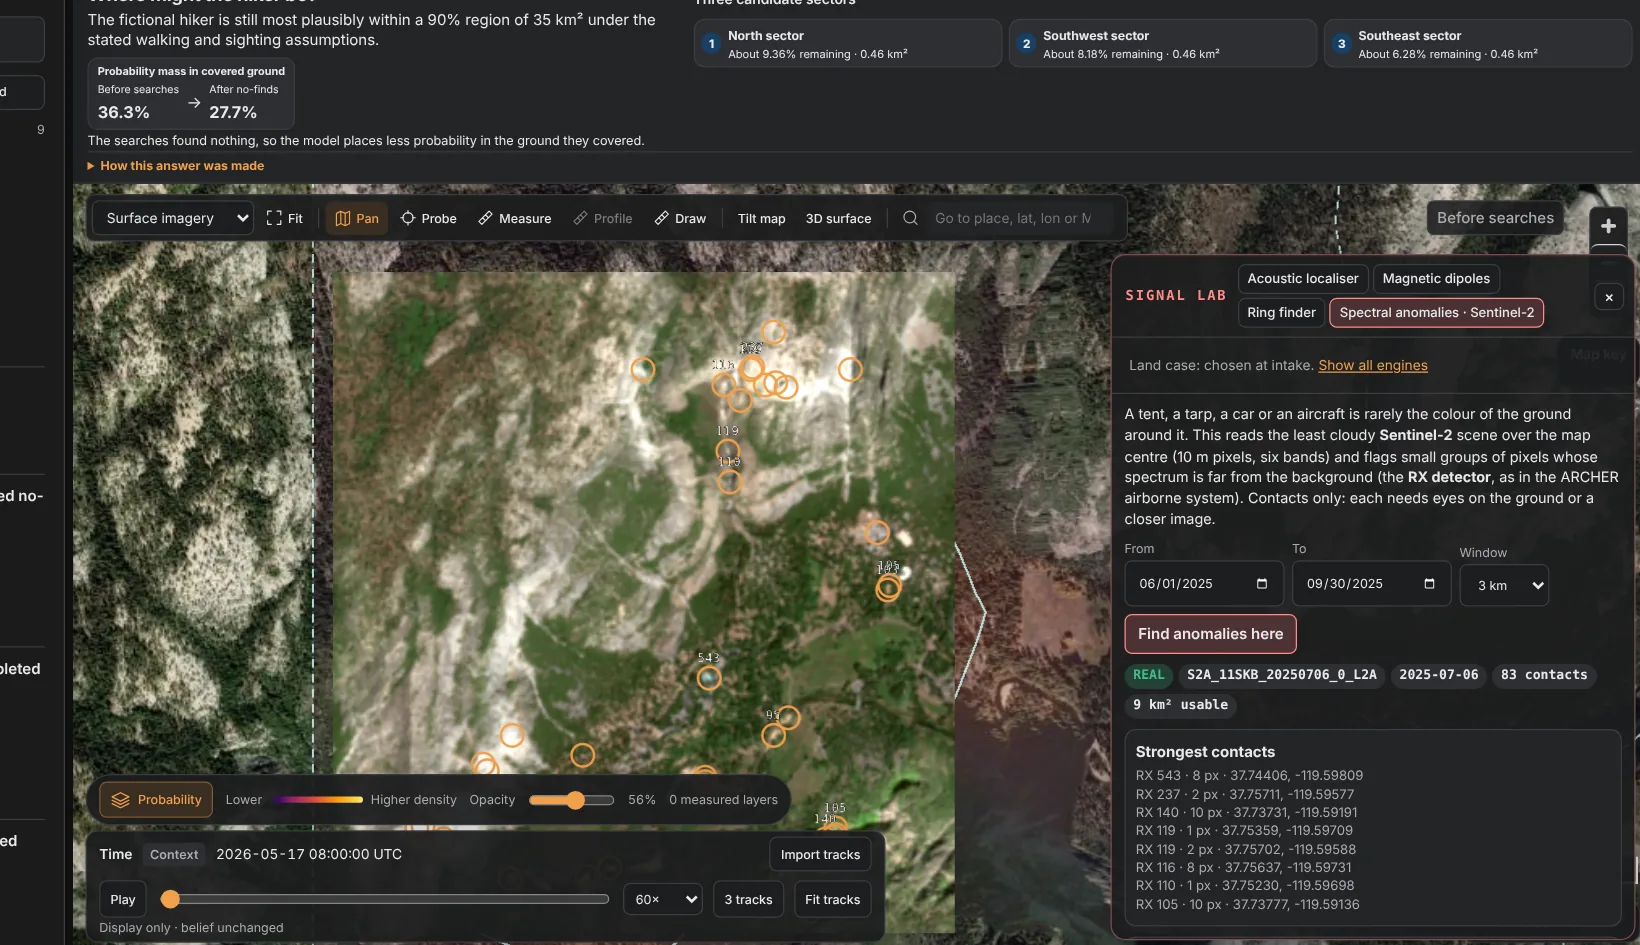
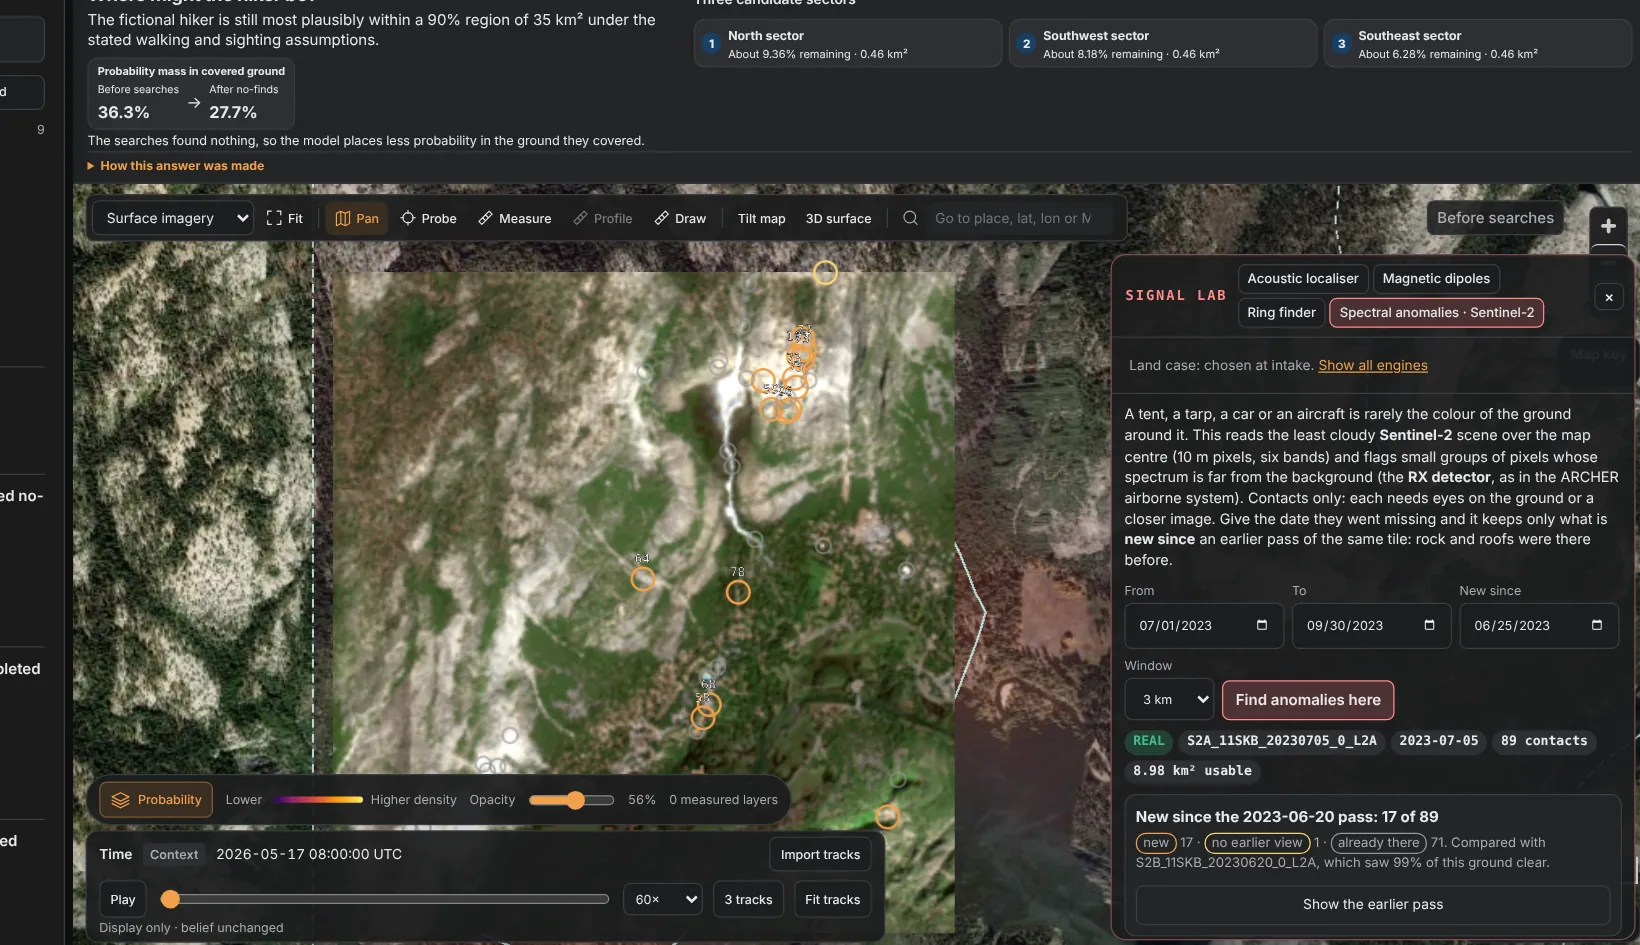
Land engine: "new since they went missing", measured on real pairs
The spectral engine section explains the comparison with an earlier pass of the same tile and why
the pass is chosen by how much ground it sees (tile-wide cloud picked snowy spring scenes). New
screenshot: Yosemite, 5 July against 20 June 2023, 17 of 89 anomalies new. Real-data table and
board gain the R7 result (6.0 to 0.8 other anomalies per km2 where the earlier pass saw the
ground; 8.0 to 3.2 over all five; tent still 122/125). R6 numbers follow the repeatable re-run
(10 m2: 59/125).

Claude-Session: https://claude.ai/code/session_01MYDVWJmnsMXumzgm4hNe9F

diff --git a/_pages/abyssal/engines.html b/_pages/abyssal/engines.html
@@ -217,10 +217,11 @@
     <div class="k">Land · Sentinel-2 imagery</div>
     <h3>The wrong colour for the place</h3>
     <p>A tent, a tarp, a car or a crashed aircraft is rarely the colour of the ground around it. The engine reads the least cloudy Sentinel-2 scene over the map (10 m pixels, six bands, cloud and shadow masked) and scores every pixel by how far its spectrum sits from the background, the Reed–Xiaoli detector: \(d^2 = (x-\mu)^\top \Sigma^{-1} (x-\mu)\), which is \(\chi^2_6\) on ordinary ground. The threshold is \(p = 10^{-9}\), and anything bigger than twelve pixels (a field, a roof, a snowfield) is dropped as not small. The same idea flew in the ARCHER hyperspectral system.</p>
-    <div class="nums"><div><b>123 / 125</b><small>20 m² orange tents found</small></div><div><b>58 / 125</b><small>at 10 m², a tenth of a pixel</small></div><div><b>~8 / km²</b><small>other anomalies on real ground</small></div></div>
-    <p class="honest"><span class="tag real">real</span> Calibrated by planting 2,500 targets with typical published spectra into real scenes in five landscapes. The background is real; the truth is made, because no public list of real tents in satellite scenes exists. Rock, roofs and vehicles also stand out, so the output is a list of places to look at more closely, never an answer. On a land case, ABYSSAL shows this engine and hides the sea ones.</p>
+    <p>Most of what stands out is permanent: rock, roofs, the cars that live there. A lost person's tent is <em>new</em>. Give the date they went missing and the engine finds the earlier pass of the same Sentinel-2 tile that saw most of the same ground clear (the two share the exact 10 m grid), and marks each contact new, already there, or not seen before. Choosing that pass by tile-wide cloud cover failed: it picked spring scenes whose ground was under snow.</p>
+    <div class="nums"><div><b>123 / 125</b><small>20 m² orange tents found</small></div><div><b>59 / 125</b><small>at 10 m², a tenth of a pixel</small></div><div><b>6.0 → 0.8</b><small>other anomalies per km², new since an earlier pass</small></div></div>
+    <p class="honest"><span class="tag real">real</span> Calibrated by planting 2,500 targets with typical published spectra into real scenes in five landscapes. The background is real; the truth is made, because no public list of real tents in satellite scenes exists. One scene alone raises about eight other anomalies per km²; "new since" cuts that to 0.8 where the earlier pass saw all the ground, still finding 122 of 125 tents. Across all five sites it is 3.2, because snow, a year of real change (heather burning) and sun on cliffs leave more. Either way the output is a list of places to look at more closely, never an answer. On a land case, ABYSSAL shows this engine and hides the sea ones.</p>
   </div>
-  <figure><img src="../assets/abyssal/eng-spectral.webp" alt="A real Sentinel-2 scene over Yosemite with spectral anomaly contacts marked, and the Signal Lab panel listing the strongest contacts" loading="lazy"><figcaption>Real Sentinel-2, Yosemite, July 2025: 83 small anomalies in 9 km² of usable ground, each a place to look rather than an answer.</figcaption></figure>
+  <figure><img src="../assets/abyssal/eng-spectral.webp" alt="A real Sentinel-2 scene over Yosemite with anomaly contacts: orange rings for new ones, grey for ones already there in an earlier pass, and the Signal Lab panel counting them" loading="lazy"><figcaption>Real Sentinel-2 over Yosemite, 5 July 2023, against the 20 June pass: 17 of 89 small anomalies are new (orange); the grey ones were already there.</figcaption></figure>
 </section>
 
 <section class="feature flip" id="eng-earlier">
@@ -241,7 +242,8 @@
     <tr><td>Dark vessels</td><td>9 windows, 4 days, three US approaches</td><td>NOAA MarineCadastre AIS at image time</td><td class="n">≥100 m: 47/51; &lt;35 m: 37/54; 958 unexplained echoes in 5,464 km²</td></tr>
     <tr><td>Persistence</td><td>8 passes over 3 platform fields</td><td>NOAA charted platforms</td><td class="n">15/16, median 33 m; Eva (near shore) missed</td></tr>
     <tr><td>Seabed</td><td>85 NOAA BlueTopo windows, 12 regions</td><td>Survey-located chart wrecks</td><td class="n">41/85, median 9 m</td></tr>
-    <tr><td>Spectral anomalies (land)</td><td>Sentinel-2 L2A, 5 landscapes (Sierra, Cairngorms, Cascades, Nevada)</td><td>2,500 targets planted at known places</td><td class="n">20 m² orange tent: 123/125; 10 m²: 58/125; ~8 other anomalies per km²</td></tr>
+    <tr><td>Spectral anomalies (land)</td><td>Sentinel-2 L2A, 5 landscapes (Sierra, Cairngorms, Cascades, Nevada)</td><td>2,500 targets planted at known places</td><td class="n">20 m² orange tent: 123/125; 10 m²: 59/125; ~8 other anomalies per km²</td></tr>
+    <tr><td>New since (land)</td><td>5 real pairs of Sentinel-2 passes, same tile</td><td>2,500 targets planted in the later pass</td><td class="n">other anomalies 6.0 → 0.8 per km² where the earlier pass saw the ground (8.0 → 3.2 over all five); tent 122/125</td></tr>
     <tr><td>Lost-submarine drill</td><td>ARA San Juan, public facts + ETOPO 2022</td><td>The wreck, found at 907 m</td><td class="n">95% area −34% (0.5° bearing error), wreck inside the 50% region</td></tr>
   </tbody>
 </table></div>
@@ -264,7 +266,7 @@
     <tr><td>Magnetic dipole</td><td>position, depth, moment</td><td class="n">0.95 POD; 3 cm depth</td><td>none yet</td></tr>
     <tr><td>Seabed &amp; sonar</td><td>relief and shadow contacts</td><td class="n">47/48 wrecks; 58/64 side-scan</td><td>41/85 charted wrecks, NOAA BlueTopo</td></tr>
     <tr><td>Debris back-track</td><td>where finds entered the water</td><td class="n">30/30 coverage, shared environment</td><td>none yet</td></tr>
-    <tr><td>Spectral anomalies (land)</td><td>small objects that are the wrong colour</td><td class="n">implants in real scenes: 98% at 20 m², 46% at 10 m²</td><td>5 real Sentinel-2 landscapes; ~8 other anomalies per km²</td></tr>
+    <tr><td>Spectral anomalies (land)</td><td>small objects that are the wrong colour</td><td class="n">implants in real scenes: 98% at 20 m², 47% at 10 m²</td><td>5 real Sentinel-2 landscapes; 0.8 other anomalies per km² new since an earlier clear pass</td></tr>
   </tbody>
 </table>
 </div>

diff --git a/abyssal/engines.html b/abyssal/engines.html
@@ -264,10 +264,11 @@
     <div class="k">Land · Sentinel-2 imagery</div>
     <h3>The wrong colour for the place</h3>
     <p>A tent, a tarp, a car or a crashed aircraft is rarely the colour of the ground around it. The engine reads the least cloudy Sentinel-2 scene over the map (10 m pixels, six bands, cloud and shadow masked) and scores every pixel by how far its spectrum sits from the background, the Reed–Xiaoli detector: \(d^2 = (x-\mu)^\top \Sigma^{-1} (x-\mu)\), which is \(\chi^2_6\) on ordinary ground. The threshold is \(p = 10^{-9}\), and anything bigger than twelve pixels (a field, a roof, a snowfield) is dropped as not small. The same idea flew in the ARCHER hyperspectral system.</p>
-    <div class="nums"><div><b>123 / 125</b><small>20 m² orange tents found</small></div><div><b>58 / 125</b><small>at 10 m², a tenth of a pixel</small></div><div><b>~8 / km²</b><small>other anomalies on real ground</small></div></div>
-    <p class="honest"><span class="tag real">real</span> Calibrated by planting 2,500 targets with typical published spectra into real scenes in five landscapes. The background is real; the truth is made, because no public list of real tents in satellite scenes exists. Rock, roofs and vehicles also stand out, so the output is a list of places to look at more closely, never an answer. On a land case, ABYSSAL shows this engine and hides the sea ones.</p>
+    <p>Most of what stands out is permanent: rock, roofs, the cars that live there. A lost person's tent is <em>new</em>. Give the date they went missing and the engine finds the earlier pass of the same Sentinel-2 tile that saw most of the same ground clear (the two share the exact 10 m grid), and marks each contact new, already there, or not seen before. Choosing that pass by tile-wide cloud cover failed: it picked spring scenes whose ground was under snow.</p>
+    <div class="nums"><div><b>123 / 125</b><small>20 m² orange tents found</small></div><div><b>59 / 125</b><small>at 10 m², a tenth of a pixel</small></div><div><b>6.0 → 0.8</b><small>other anomalies per km², new since an earlier pass</small></div></div>
+    <p class="honest"><span class="tag real">real</span> Calibrated by planting 2,500 targets with typical published spectra into real scenes in five landscapes. The background is real; the truth is made, because no public list of real tents in satellite scenes exists. One scene alone raises about eight other anomalies per km²; "new since" cuts that to 0.8 where the earlier pass saw all the ground, still finding 122 of 125 tents. Across all five sites it is 3.2, because snow, a year of real change (heather burning) and sun on cliffs leave more. Either way the output is a list of places to look at more closely, never an answer. On a land case, ABYSSAL shows this engine and hides the sea ones.</p>
   </div>
-  <figure><img src="../assets/abyssal/eng-spectral.webp" alt="A real Sentinel-2 scene over Yosemite with spectral anomaly contacts marked, and the Signal Lab panel listing the strongest contacts" loading="lazy"><figcaption>Real Sentinel-2, Yosemite, July 2025: 83 small anomalies in 9 km² of usable ground, each a place to look rather than an answer.</figcaption></figure>
+  <figure><img src="../assets/abyssal/eng-spectral.webp" alt="A real Sentinel-2 scene over Yosemite with anomaly contacts: orange rings for new ones, grey for ones already there in an earlier pass, and the Signal Lab panel counting them" loading="lazy"><figcaption>Real Sentinel-2 over Yosemite, 5 July 2023, against the 20 June pass: 17 of 89 small anomalies are new (orange); the grey ones were already there.</figcaption></figure>
 </section>
 
 <section class="feature flip" id="eng-earlier">
@@ -288,7 +289,8 @@
     <tr><td>Dark vessels</td><td>9 windows, 4 days, three US approaches</td><td>NOAA MarineCadastre AIS at image time</td><td class="n">≥100 m: 47/51; &lt;35 m: 37/54; 958 unexplained echoes in 5,464 km²</td></tr>
     <tr><td>Persistence</td><td>8 passes over 3 platform fields</td><td>NOAA charted platforms</td><td class="n">15/16, median 33 m; Eva (near shore) missed</td></tr>
     <tr><td>Seabed</td><td>85 NOAA BlueTopo windows, 12 regions</td><td>Survey-located chart wrecks</td><td class="n">41/85, median 9 m</td></tr>
-    <tr><td>Spectral anomalies (land)</td><td>Sentinel-2 L2A, 5 landscapes (Sierra, Cairngorms, Cascades, Nevada)</td><td>2,500 targets planted at known places</td><td class="n">20 m² orange tent: 123/125; 10 m²: 58/125; ~8 other anomalies per km²</td></tr>
+    <tr><td>Spectral anomalies (land)</td><td>Sentinel-2 L2A, 5 landscapes (Sierra, Cairngorms, Cascades, Nevada)</td><td>2,500 targets planted at known places</td><td class="n">20 m² orange tent: 123/125; 10 m²: 59/125; ~8 other anomalies per km²</td></tr>
+    <tr><td>New since (land)</td><td>5 real pairs of Sentinel-2 passes, same tile</td><td>2,500 targets planted in the later pass</td><td class="n">other anomalies 6.0 → 0.8 per km² where the earlier pass saw the ground (8.0 → 3.2 over all five); tent 122/125</td></tr>
     <tr><td>Lost-submarine drill</td><td>ARA San Juan, public facts + ETOPO 2022</td><td>The wreck, found at 907 m</td><td class="n">95% area −34% (0.5° bearing error), wreck inside the 50% region</td></tr>
   </tbody>
 </table></div>
@@ -311,7 +313,7 @@
     <tr><td>Magnetic dipole</td><td>position, depth, moment</td><td class="n">0.95 POD; 3 cm depth</td><td>none yet</td></tr>
     <tr><td>Seabed &amp; sonar</td><td>relief and shadow contacts</td><td class="n">47/48 wrecks; 58/64 side-scan</td><td>41/85 charted wrecks, NOAA BlueTopo</td></tr>
     <tr><td>Debris back-track</td><td>where finds entered the water</td><td class="n">30/30 coverage, shared environment</td><td>none yet</td></tr>
-    <tr><td>Spectral anomalies (land)</td><td>small objects that are the wrong colour</td><td class="n">implants in real scenes: 98% at 20 m², 46% at 10 m²</td><td>5 real Sentinel-2 landscapes; ~8 other anomalies per km²</td></tr>
+    <tr><td>Spectral anomalies (land)</td><td>small objects that are the wrong colour</td><td class="n">implants in real scenes: 98% at 20 m², 47% at 10 m²</td><td>5 real Sentinel-2 landscapes; 0.8 other anomalies per km² new since an earlier clear pass</td></tr>
   </tbody>
 </table>
 </div>

diff --git a/abyssal/index.html b/abyssal/index.html
@@ -102,7 +102,7 @@
       <div><b>98%</b><span>A <strong>20 m² orange tent</strong> planted in real Sentinel-2 scenes, found by the land engine</span></div>
       <div><b>−34%</b><span>ARA San Juan: search area cut by the collapse-depth constraint, <strong>wreck kept</strong></span></div>
     </div>
-    <p>Every number has receipts: the exact radar windows, satellite scenes, buoy files, AIS days and chart records it came from, and a script that re-runs it. The limits are measured too: the ship detector raises too many unexplained echoes on rough seas, half the charted wrecks are too low or buried to stand out of a 4 m grid, and on land the imagery raises about eight other unusual objects per km² besides the target.</p>
+    <p>Every number has receipts: the exact radar windows, satellite scenes, buoy files, AIS days and chart records it came from, and a script that re-runs it. The limits are measured too: the ship detector raises too many unexplained echoes on rough seas, half the charted wrecks are too low or buried to stand out of a 4 m grid, and on land one satellite scene raises about eight other unusual objects per km². Comparing with an earlier pass and keeping only what is new cuts that to under one, where the earlier pass saw the ground clearly.</p>
     <p><a class="btn primary" href="engines.html#real">Inside the machine: the results →</a></p>
   </div>
   <figure class="shot"><img src="../assets/abyssal/evidence-real.webp" alt="ABYSSAL's evidence page: radar wind against buoy wind, and detection rate by ship length against real AIS" loading="lazy"><figcaption><b>The evidence page in the app.</b> Radar wind against buoy wind, one dot per pass, and detection rate by ship length against real AIS.</figcaption></figure>

diff --git a/_series/index.html b/_series/index.html
@@ -59,7 +59,7 @@
       <div><b>98%</b><span>A <strong>20 m² orange tent</strong> planted in real Sentinel-2 scenes, found by the land engine</span></div>
       <div><b>−34%</b><span>ARA San Juan: search area cut by the collapse-depth constraint, <strong>wreck kept</strong></span></div>
     </div>
-    <p>Every number has receipts: the exact radar windows, satellite scenes, buoy files, AIS days and chart records it came from, and a script that re-runs it. The limits are measured too: the ship detector raises too many unexplained echoes on rough seas, half the charted wrecks are too low or buried to stand out of a 4 m grid, and on land the imagery raises about eight other unusual objects per km² besides the target.</p>
+    <p>Every number has receipts: the exact radar windows, satellite scenes, buoy files, AIS days and chart records it came from, and a script that re-runs it. The limits are measured too: the ship detector raises too many unexplained echoes on rough seas, half the charted wrecks are too low or buried to stand out of a 4 m grid, and on land one satellite scene raises about eight other unusual objects per km². Comparing with an earlier pass and keeping only what is new cuts that to under one, where the earlier pass saw the ground clearly.</p>
     <p><a class="btn primary" href="engines.html#real">Inside the machine: the results →</a></p>
   </div>
   <figure class="shot"><img src="../assets/abyssal/evidence-real.webp" alt="ABYSSAL's evidence page: radar wind against buoy wind, and detection rate by ship length against real AIS" loading="lazy"><figcaption><b>The evidence page in the app.</b> Radar wind against buoy wind, one dot per pass, and detection rate by ship length against real AIS.</figcaption></figure>
